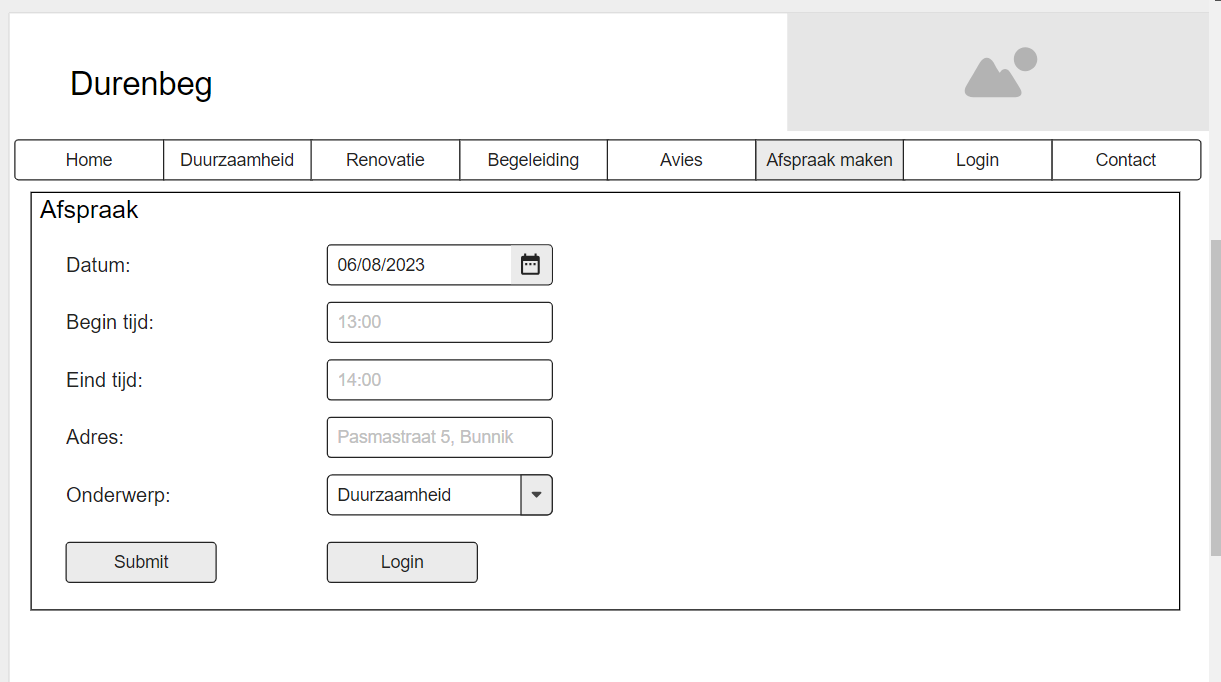
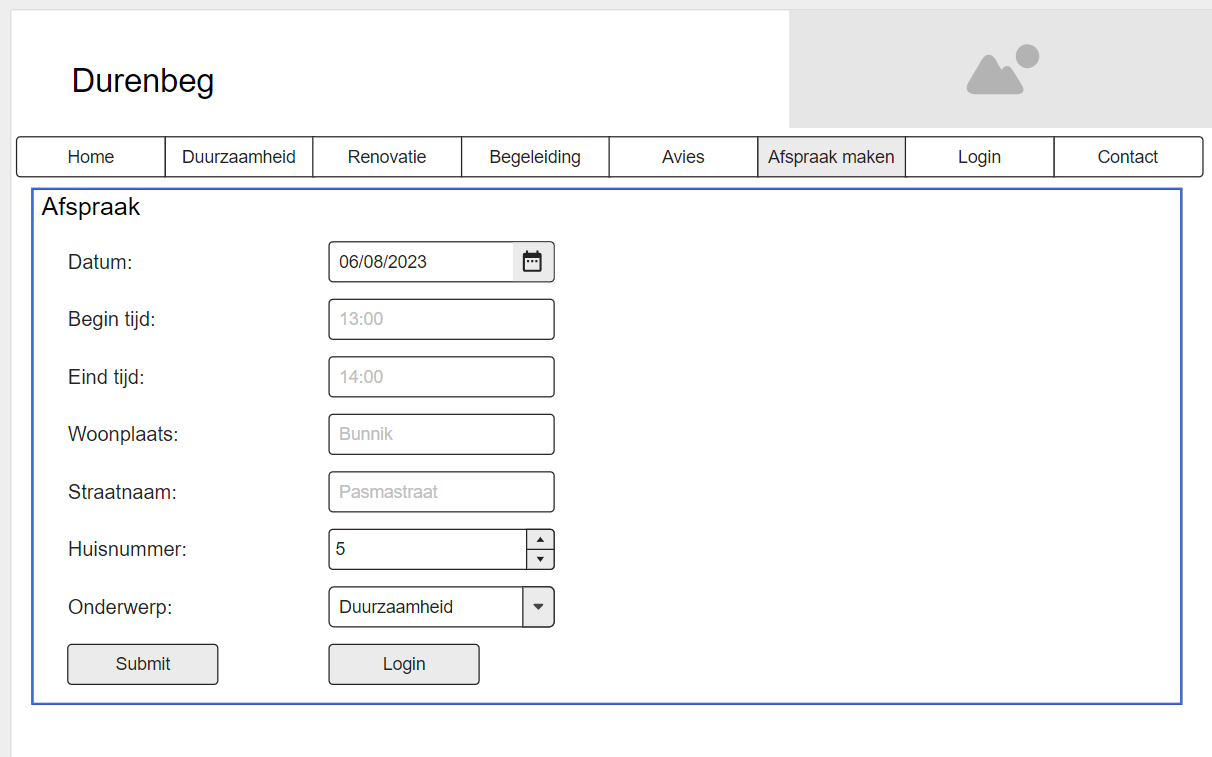
gegevens pagina gemaakt

Changed region(s): [[0.0, 0.0308, 1.0, 0.9545], [0.0611, 0.6158, 0.1526, 0.6774]]

diff --git a/src/main/webApp/pages/gegevens.html b/src/main/webApp/pages/gegevens.html
@@ -4,12 +4,86 @@
     <meta charset="UTF-8">
     <title>Durenbeg</title>
     <link rel="stylesheet" href="../styles/algemeen.css" />
+    <link rel="stylesheet" href="../styles/gegevens.css" />
 </head>
 <body>
     <header>
         <img src="../images/Logo.jpg" alt="logo" class="logo">
         <h1>Durenbeg</h1>
+        <nav>
+            <ul>
+                <li><a href="home.html">Home</a></li>
+                <li><a href="duurzaamheid.html">Duurzaamheid</a></li>
+                <li><a href="renovatie.html">Renovatie</a></li>
+                <li><a href="begeleiding.html">Begeleiding</a></li>
+                <li><a href="advies.html">Advies</a></li>
+                <li><a href="afspraak.html">Afspraak maken</a></li>
+                <li><a href="login.html">Login</a></li>
+                <li><a href="contact.html">Contact</a></li>
+            </ul>
+        </nav>
     </header>
-
+    <main>
+        <div class="gegevens">
+            <fieldset>
+                <legend><h2>Gegevens</h2></legend>
+                <div class="informatie">
+                    <div>Voornaam: </div> <div id="voornaam"></div>
+                    <div>Achternaam: </div> <div id="achternaam"></div>
+                    <div>Woonplaats: </div> <div id="woonplaats"></div>
+                    <div>Straatnaam: </div> <div id="straatnaam"></div>
+                    <div>Huisnummer: </div> <div id="huisnummer"></div>
+                    <div>Telefoonnummer: </div> <div id="telefoonnummer"></div>
+                    <div>Email: </div> <div id="email"></div>
+                </div>
+            </fieldset>
+            <fieldset>
+                <legend><h2>Afspraak</h2></legend>
+                <table class="tabel">
+                    <tr>
+                        <th class="tabelHead">Datum</th>
+                        <th class="tabelHead">Begintijd</th>
+                        <th class="tabelHead">Eindtijd</th>
+                        <th class="tabelHead">Woonplaats</th>
+                        <th class="tabelHead">Straatnaam</th>
+                        <th class="tabelHead">Huisnummer</th>
+                        <th class="tabelHead">Onderwerp</th>
+                        <th class="tabelHead">Offerte</th>
+                    </tr>
+                    <tr>
+                        <td class="tabelBody"></td>
+                        <td class="tabelBody"></td>
+                        <td class="tabelBody"></td>
+                        <td class="tabelBody"></td>
+                        <td class="tabelBody"></td>
+                        <td class="tabelBody"></td>
+                        <td class="tabelBody"></td>
+                        <td class="tabelBody"></td>
+                    </tr>
+                </table>
+            </fieldset>
+            <fieldset>
+                <legend><h2>Offerte</h2></legend>
+                <table class="tabel">
+                    <tr>
+                        <th class="tabelHead">Onderwerp</th>
+                        <th class="tabelHead">Bedrag</th>
+                        <th class="tabelHead">Nummer</th>
+                        <th class="tabelHead">Datum</th>
+                        <th class="tabelHead">Geldigheid</th>
+                        <th class="tabelHead">Omschrijving</th>
+                    </tr>
+                    <tr>
+                        <td class="tabelBody"></td>
+                        <td class="tabelBody"></td>
+                        <td class="tabelBody"></td>
+                        <td class="tabelBody"></td>
+                        <td class="tabelBody"></td>
+                        <td class="tabelBody"></td>
+                    </tr>
+                </table>
+            </fieldset>
+        </div>
+    </main>
 </body>
 </html>

diff --git a/src/main/webApp/pages/registreren.html b/src/main/webApp/pages/registreren.html
@@ -17,7 +17,7 @@
                 <li><a href="renovatie.html">Renovatie</a></li>
                 <li><a href="begeleiding.html">Begeleiding</a></li>
                 <li><a href="advies.html">Advies</a></li>
-                <li><a href="afspraak.html">model.Afspraak maken</a></li>
+                <li><a href="afspraak.html">Afspraak maken</a></li>
                 <li><a class="active" href="login.html">Login</a></li>
                 <li><a href="contact.html">Contact</a></li>
             </ul>
@@ -30,26 +30,32 @@
                 <label for="voornaam">Voornaam: </label>
                 <input id="voornaam" name="voornaam" class="inputRegistreren">
                 <br><br>
-                <labal for="achternaam">Achternaam: </labal>
+                <label for="achternaam">Achternaam: </label>
                 <input id="achternaam" name="achternaam" class="inputRegistreren">
                 <br><br>
-                <labal for="adres">Adres: </labal>
-                <input id="adres" name="adres" class="inputRegistreren">
+                <label for="woonplaats">Woonplaats: </label>
+                <input id="woonplaats" name="woonplaats" class="inputRegistreren">
                 <br><br>
-                <labal for="telefoonnummer">Telefoonnummer: </labal>
+                <label for="straatnaam">Straatnaam: </label>
+                <input id="straatnaam" name="straatnaam" class="inputRegistreren">
+                <br><br>
+                <label for="huisnummer">Huisnummer: </label>
+                <input id="huisnummer" name="huisnummer" type="number" class="inputRegistreren">
+                <br><br>
+                <label for="telefoonnummer">Telefoonnummer: </label>
                 <input id="telefoonnummer" name="adres" type="tel" class="inputRegistreren">
                 <br><br>
-                <labal for="email">Email: </labal>
+                <label for="email">Email: </label>
                 <input id="email" name="email" type="email" class="inputRegistreren">
                 <br><br>
-                <labal for="wachtwoord">Wachtwoord: </labal>
+                <label for="wachtwoord">Wachtwoord: </label>
                 <input id="wachtwoord" name="wachtwoord" type="password" class="inputRegistreren">
                 <br><br>
-                <labal for="herWachtwoord">Herhaling Wachtwoord: </labal>
+                <label for="herWachtwoord">Herhaling Wachtwoord: </label>
                 <input id="herWachtwoord" name="herWachtwoord" type="password" class="inputRegistreren">
                 <br><br>
                 <button type="submit" class="submitRegistreren">Submit</button>
-                <button type="cancel" class="cancelRegistreren">Cancel</button>
+                <button type="reset" class="cancelRegistreren">Cancel</button>
             </fieldset>
         </form>
     </main>

diff --git a/src/main/webApp/pages/afspraak.html b/src/main/webApp/pages/afspraak.html
@@ -18,7 +18,7 @@
                 <li><a href="renovatie.html">Renovatie</a></li>
                 <li><a href="begeleiding.html">Begeleiding</a></li>
                 <li><a href="advies.html">Advies</a></li>
-                <li><a class="active" href="afspraak.html">model.Afspraak maken</a></li>
+                <li><a class="active" href="afspraak.html">Afspraak maken</a></li>
                 <li><a href="login.html">Login</a></li>
                 <li><a href="contact.html">Contact</a></li>
             </ul>
@@ -27,7 +27,7 @@
     <main>
         <form>
             <fieldset>
-                <legend><h2>model.Afspraak maken</h2></legend>
+                <legend><h2>Afspraak maken</h2></legend>
                 <label for="datum">Datum: </label>
                 <input id="datum" name="datum" type="date" class="inputAfspraak">
                 <br><br>
@@ -37,8 +37,14 @@
                 <label for="eindTijd">Eind tijd: </label>
                 <input id="eindTijd" name="eindTijd" type="time" class="inputAfspraak">
                 <br><br>
-                <label for="adres">Adres: </label>
-                <input id="adres" name="adres" class="inputAfspraak">
+                <label for="woonplaats">Woonplaats: </label>
+                <input id="woonplaats" name="woonplaats" class="inputAfspraak">
+                <br><br>
+                <label for="straatnaam">Straatnaam: </label>
+                <input id="straatnaam" name="straatnaam" class="inputAfspraak">
+                <br><br>
+                <label for="huisnummer">Huisnummer: </label>
+                <input id="huisnummer" name="huisnummer" type="number" class="inputAfspraak">
                 <br><br>
                 <label for="onderwerp">Onderwerp: </label>
                 <select id="onderwerp" name="onderwerp" class="inputAfspraak">
@@ -50,7 +56,7 @@
                 </select>
                 <br><br>
                 <button type="submit" class="submitAfspraak">Submit</button>
-                <button type="cancel" class="cancelAfspraak">Cancel</button>
+                <button type="reset" class="cancelAfspraak">Cancel</button>
             </fieldset>
         </form>
 

diff --git a/src/main/webApp/pages/advies.html b/src/main/webApp/pages/advies.html
@@ -16,7 +16,7 @@
                 <li><a href="renovatie.html">Renovatie</a></li>
                 <li><a href="begeleiding.html">Begeleiding</a></li>
                 <li><a class="active" href="advies.html">Advies</a></li>
-                <li><a href="afspraak.html">model.Afspraak maken</a></li>
+                <li><a href="afspraak.html">Afspraak maken</a></li>
                 <li><a href="login.html">Login</a></li>
                 <li><a href="contact.html">Contact</a></li>
             </ul>

diff --git a/src/main/webApp/pages/begeleiding.html b/src/main/webApp/pages/begeleiding.html
@@ -16,7 +16,7 @@
                 <li><a href="renovatie.html">Renovatie</a></li>
                 <li><a class="active" href="begeleiding.html">Begeleiding</a></li>
                 <li><a href="advies.html">Advies</a></li>
-                <li><a href="afspraak.html">model.Afspraak maken</a></li>
+                <li><a href="afspraak.html">Afspraak maken</a></li>
                 <li><a href="login.html">Login</a></li>
                 <li><a href="contact.html">Contact</a></li>
             </ul>

diff --git a/src/main/webApp/pages/login.html b/src/main/webApp/pages/login.html
@@ -17,7 +17,7 @@
                 <li><a href="renovatie.html">Renovatie</a></li>
                 <li><a href="begeleiding.html">Begeleiding</a></li>
                 <li><a href="advies.html">Advies</a></li>
-                <li><a href="afspraak.html">model.Afspraak maken</a></li>
+                <li><a href="afspraak.html">Afspraak maken</a></li>
                 <li><a class="active" href="login.html">Login</a></li>
                 <li><a href="contact.html">Contact</a></li>
             </ul>

diff --git a/src/main/webApp/pages/renovatie.html b/src/main/webApp/pages/renovatie.html
@@ -16,7 +16,7 @@
                 <li><a class="active" href="renovatie.html">Renovatie</a></li>
                 <li><a href="begeleiding.html">Begeleiding</a></li>
                 <li><a href="advies.html">Advies</a></li>
-                <li><a href="afspraak.html">model.Afspraak maken</a></li>
+                <li><a href="afspraak.html">Afspraak maken</a></li>
                 <li><a href="login.html">Login</a></li>
                 <li><a href="contact.html">Contact</a></li>
             </ul>

diff --git a/src/main/webApp/pages/duurzaamheid.html b/src/main/webApp/pages/duurzaamheid.html
@@ -16,7 +16,7 @@
                 <li><a href="renovatie.html">Renovatie</a></li>
                 <li><a href="begeleiding.html">Begeleiding</a></li>
                 <li><a href="advies.html">Advies</a></li>
-                <li><a href="afspraak.html">model.Afspraak maken</a></li>
+                <li><a href="afspraak.html">Afspraak maken</a></li>
                 <li><a href="login.html">Login</a></li>
                 <li><a href="contact.html">Contact</a></li>
             </ul>

diff --git a/src/main/webApp/pages/home.html b/src/main/webApp/pages/home.html
@@ -16,7 +16,7 @@
                 <li><a href="renovatie.html">Renovatie</a></li>
                 <li><a href="begeleiding.html">Begeleiding</a></li>
                 <li><a href="advies.html">Advies</a></li>
-                <li><a href="afspraak.html">model.Afspraak maken</a></li>
+                <li><a href="afspraak.html">Afspraak maken</a></li>
                 <li><a href="login.html">Login</a></li>
                 <li><a href="contact.html">Contact</a></li>
             </ul>

diff --git a/src/main/webApp/pages/contact.html b/src/main/webApp/pages/contact.html
@@ -16,7 +16,7 @@
         <li><a href="renovatie.html">Renovatie</a></li>
         <li><a href="begeleiding.html">Begeleiding</a></li>
         <li><a href="advies.html">Advies</a></li>
-        <li><a href="afspraak.html">model.Afspraak maken</a></li>
+        <li><a href="afspraak.html">Afspraak maken</a></li>
         <li><a href="login.html">Login</a></li>
         <li><a class="active" href="contact.html">Contact</a></li>
       </ul>

diff --git a/src/main/webApp/styles/gegevens.css b/src/main/webApp/styles/gegevens.css
@@ -1,0 +1,25 @@
+.gegevens {
+    position: absolute;
+    top: 20%;
+    width: calc(100% - 10px);
+}
+
+.informatie {
+    display: grid;
+    gap: 14px;
+    grid-template-columns: auto auto;
+}
+
+.tabel {
+    width: 100%;
+    border: black 1px solid;
+}
+
+.tabelHead {
+    border: black 1px solid;
+}
+
+.tabelBody {
+    border: black 1px solid;
+    height: 14px;
+}

diff --git a/src/main/java/model/Klant.java b/src/main/java/model/Klant.java
@@ -20,4 +20,36 @@ public class Klant {
         this.nummer = nummer;
         this.telefoonnummer = telefoonnummer;
     }
+
+    public String getEmail() {
+        return email;
+    }
+
+    public String getWachtwoord() {
+        return wachtwoord;
+    }
+
+    public String getVoornaam() {
+        return voornaam;
+    }
+
+    public String getAchternaam() {
+        return achternaam;
+    }
+
+    public String getWoonplaats() {
+        return woonplaats;
+    }
+
+    public String getStraatnaam() {
+        return straatnaam;
+    }
+
+    public int getNummer() {
+        return nummer;
+    }
+
+    public String getTelefoonnummer() {
+        return telefoonnummer;
+    }
 }
